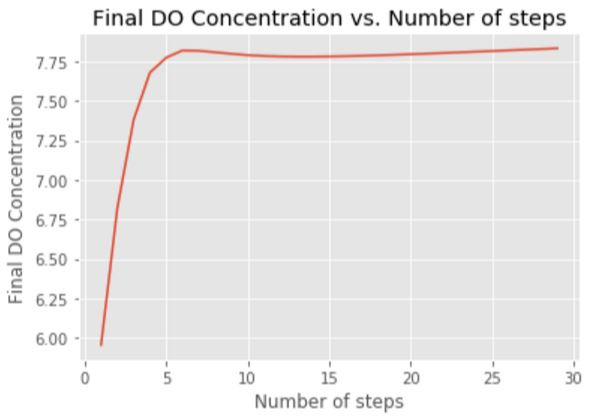
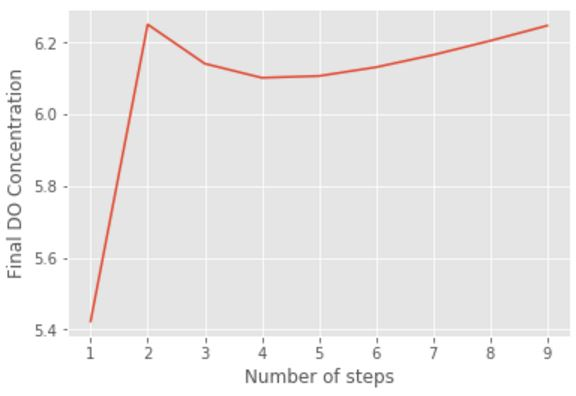
More or less finalized aerator dimensions

diff --git a/AireadorOcotal.md b/AireadorOcotal.md
@@ -1,74 +1,103 @@
-#Aerator Design for Ocotal
+#Aerator for Ocotal
+
+"It takes 0.14 mg/L of oxygen to oxidize 1 mg/L of iron. Iron concentration above 0.3 mg/L is unacceptable" () The highest concentration of iron recorded in Ocotal is 4 mg/L.
+
 
 ```python
 # %%
+# imports
 from aide_design.play import *
 import matplotlib.pyplot as plt
 from scipy import interpolate
 Q_plant = 60*(u.L/u.s)
+C_iron_max = 4*(u.mg/u.L)
+CO2_increase_min = 0.14*C_iron_max
+
+print(CO2_increase_min)
 ```
-## Cascade
+The minimum addition of oxygen is 0.56 milligram / liter.
+
+
+## Cascade Design
+
+The following is based on [this](https://ocw.tudelft.nl/wp-content/uploads/Aeration-and-gas-stripping-1.pdf) paper and [this](http://mimoza.marmara.edu.tr/~bilge.alpaslan/enve301/Lectures/Chp_5.pdf) presentation.
 
 ![cascade_weir_dims](images/cascade_weir_dims.JPG)
 
 ```python
 # %%
-#max unit flow from TU Delft paper
-Q_unit_casc_max = 100*(u.m**3/u.hour)/u.m
-L_weir_total = (Q_plant/Q_unit_casc_max).to(u.m)
-L_weir_total
 
+Q_unit_casc_max = 150*(u.m**3/u.hour)/u.m
+width_cutout = .2*u.m
+width_tooth = .1*u.m
+depth_tooth = .1*u.m
+L_weir_min = (Q_plant/Q_unit_casc_max).to(u.m)
+n_cutouts = np.ceil(L_weir_min/width_cutout)
+L_total = n_cutouts*(width_tooth+width_cutout)+10*u.cm
 
-DO_initial = 2*(u.mg/u.L)
+flow_cutout = Q_plant/n_cutouts
+headloss_cutout = pc.headloss_weir(flow_cutout,width_cutout).to(u.mm)
+
+headloss_cutout.to(u.m)
+
+DO_initial = 2*(u.mg/u.L) #lacking data, assuming zero
 DO_sat = 8*(u.mg/u.L) #approximate average sat. conc. based on temperature
-
-#K values from table in TU Delft paper
-h = np.array([0,0.2,0.4,0.6,0.8,1.0,1.2,10])
-K = np.array([0,.14,.25,.36,.46,.51,.55,.99])
+h = np.array([0.2,0.4,0.6,0.8,1.0,1.2,10])*u.m
+K = np.array([.14,.25,.36,.46,.51,.55,1])# K values from table in TU Delft paper
 interp_k = interpolate.interp1d(h,K,'slinear',fill_value='extrapolate')
 
-#assume a reasonable total height, determine the number of steps to divide that
-#height into given the influent and desired effluent DO concentration
+#Assume a reasonable total height, determine the number of steps into which that height should be divided given influent and target effluent DO concentration
 
-h_total = 5*u.m
+h_total = 1.6*u.m
 n_steps_array = np.array(np.arange(1,10,1))
-h_steps_array = h_total/(n_steps_array+4/3)
-#Get K values from interpolation
+h_steps_array = h_total/n_steps_array
+
+#Interpolate to get K values
+
 K_array = interp_k(h_steps_array)
 
-h_steps_array
-K_array
-#function for final DO concentration given
+#Get the final dissolved oxygen concentration for each step height
+
 def DO_final(DO_sat,DO_initial,K,n):
   DO = DO_sat-(DO_sat-DO_initial)*(1-K)**n
   return DO
 
 DO_final_list = []
 
-#get the final dissolved oxygen content for each step height
 for K, n in zip(K_array, n_steps_array):
-  DO_final_list.append(DO_final(DO_sat,DO_initial,K,n))
+  DO_final_list.append(DO_final(DO_sat,DO_initial,K,n).magnitude)
 
+
+plt.plot(n_steps_array,DO_final_list)
+plt.xlabel('Number of steps')
+plt.ylabel('Final DO Concentration')
+plt.show()
+```
+[INSERT FINAL GRAPH HERE]
+```python
+# %%
 
 i = DO_final_list.index(max(DO_final_list))
 n_steps = n_steps_array[i]
-h_weir = h_steps_array[i]
-n_steps
+h_water_fall = h_steps_array[i]
 
-#Finding dimensions of the troughs
-t_jet = ((Q_plant**2/(L_weir_total**2*pc.gravity))**(1/3)).to(u.m)
-v_jet = Q_plant/(L_weir_total*t_jet)
 
-ti_jet = np.sqrt((2*h_weir)/pc.gravity)
+delta_DO = DO_final_list[i]*(u.mg/u.L)-DO_initial
+#Find the dimensions of the troughs
+
+critical_depth = ((flow_cutout**2/(width_cutout**2*pc.gravity))**(1/3)).to(u.m)
+v_jet = flow_cutout/(width_cutout*critical_depth)
+
+ti_jet = np.sqrt((2*h_water_fall)/pc.gravity)
 width_jet = v_jet*ti_jet
 width_trough = 2*width_jet.to(u.m)
-depth_trough = (2/3)*h_weir
+depth_trough = (2/3)*h_water_fall
 
-print('The final dissolved oxygen concentration is {}'.format(DO_final_list[i]))
-print('The horizontal length of the aerator is {}'.format(L_weir_total))
-print('The height the water falls per step (h) is {}'.format(h_weir))
+
+print('The increase in dissolved oxygen concentration is {}'.format(delta_DO))
+print('The minimum horizontal length of the aerator is {}'.format(L_total.to(u.m)))
+print('The height the water falls per step (h) is {}'.format(h_water_fall.to(u.m)))
 print('The number of steps is {}'.format(n_steps))
-print('The minimum width (B) of each step is {}'.format(width_trough))
-print('The minimum depth (H) of each step is {}'.format(depth_trough))
+print('The minimum width (B) of each step is {}'.format(width_trough.to(u.m)))
+print('The minimum depth (H) of each step is {}'.format(depth_trough.to(u.m)))
 ```
-## Multiple-tray Tower Aerator
